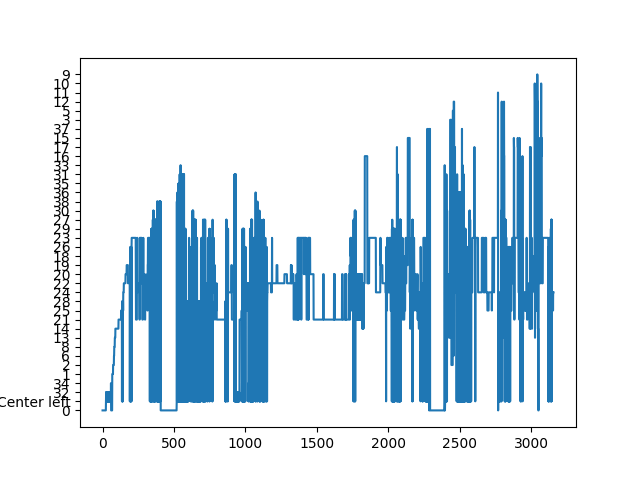
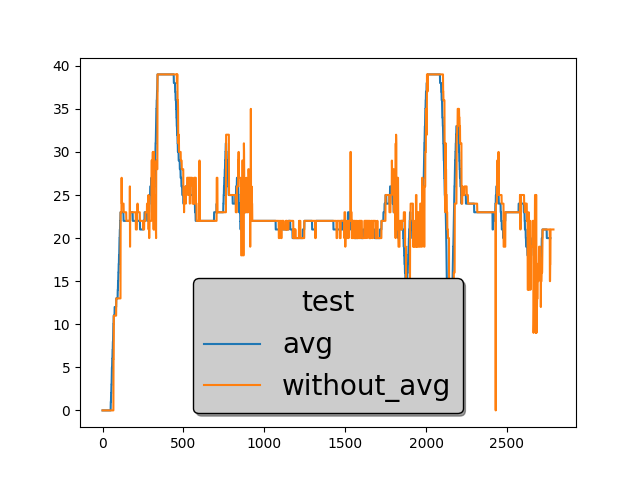
計算中間位置

diff --git a/camera_motion_estimation.py b/camera_motion_estimation.py
@@ -8,17 +8,25 @@ from scipy.stats import mode
 from sklearn.cluster import KMeans
 from collections import Counter
 from matplotlib import pyplot as plt
-from scipy.signal import find_peaks
+from scipy.signal import savgol_filter
+import pandas as pd
+import yaml
 
 class MV_on_Vechicle:
     def __init__(self):
+        with open("mvs.yaml", "r") as file:
+            mvs_data = yaml.load(file)
+            self.cameraMatrix = np.array(mvs_data['camera_matrix']['data'])
+            self.cameraMatrix = self.cameraMatrix.reshape(3,3)
+            self.distortion_coefficients = np.array(mvs_data['distortion_coefficients']['data'])
+            self.distortion_coefficients = self.distortion_coefficients.reshape(1,5)
         self.scene = "outside"
         self.window_number = 40
         self.threshold = 8000
 
 		# specify directory and file name
-        self.dir_path = "mvs_mp4\\0318"
-		# dir_path = "/media/mvclab/HDD/mvs_mp4/0318"  # mvclab
+        # self.dir_path = "mvs_mp4\\0318"
+        self.dir_path = "/media/mvclab/HDD/mvs_mp4/0318"  # mvclab
 
 		# all_file = os.listdir(dir_path)
 		# all_file = [os.path.join(dir_path, "0419_2024-04-19-06-08-40_mvs_compressed.mp4")]
@@ -44,17 +52,30 @@ class MV_on_Vechicle:
         # 儲存每幀
         self.save_frame = False
         self.save = "save"
+        # 左右轉數值邊界
+        self.leaning_right = 24
+        self.leaning_left = 16
+
+        self.window_list = [] # 存每個window
+        self.window_state = [] # 每個window的區域結果
+        self.polygon_list = [] # 畫每個window的範圍
+        self.window_result = [] # 存每個window的結果
+        self.record = []
+        self.last_state = []
+        self.center_list = []
+        self.center_without_avg_list = []
+        
 
     # 輸入影像 輸出目前影像是往左還是右
     def yuv_estimate(self, img):
-        self.threshold = img.shape[0]*img.shape[1]//4
+        self.threshold = img.shape[0]*img.shape[1]//3
         # print("threshold:", self.threshold)
         
         translation = np.ravel(img)
         # nonzeros = np.where(translation != 128)
         # translation = translation[nonzeros]
-        left_index = np.where(translation > 128)
-        right_index = np.where(translation < 128)
+        left_index = np.where(translation < 128)
+        right_index = np.where(translation > 128)
 
         left = translation[left_index]
         right = translation[right_index]
@@ -133,9 +154,24 @@ class MV_on_Vechicle:
             else:
                 left = np.sum(arr[:i])
                 right = np.sum(arr[i:])
+
             ans_list.append(abs(left-right))
+        
         best_index = np.argmax(ans_list)
+
+        if best_index == 0:
+            if np.sum(arr) < 0:
+                best_index = self.window_number - 1
+            elif np.sum(arr) > 0:
+                best_index = 0
+
         return best_index
+    
+    def exponential_moving_average(self, arr, alpha=0.5):
+        ema = arr[0]  # 初始 EMA 設為第一個元素
+        for i in range(1, len(arr)):
+            ema = alpha * arr[i] + (1 - alpha) * ema
+        return ema
 
 
     def run(self):
@@ -170,9 +206,7 @@ class MV_on_Vechicle:
             # set counter value
             # count = 1
 
-            window_list = [] # 存每個window
-            window_state = [] # 每個window的區域結果
-            polygon_list = [] # 畫每個window的範圍
+
 
             if self.scene == "outside":
                 frame_id = 0
@@ -180,8 +214,8 @@ class MV_on_Vechicle:
                 frame_height = int(cap.get(4))
                 window_width = frame_width // self.window_number
 
-                window_bottom = frame_width // 2
-                window_top = frame_height // 10
+                window_bottom = frame_height // 4 * 3
+                window_top = frame_height // 8
                 # window_bottom = frame_height // 7*6
                 # window_top = frame_height // 7
 
@@ -202,14 +236,13 @@ class MV_on_Vechicle:
             averageList = []
             last_left = ""
             last_right = ""
-            last_state = []
-            center_list = []
+
 
             for i in range(self.window_number):
-                last_state.append("")
-            record = []
+                self.last_state.append("")
+            
             for i in range(self.window_number):
-                record.append([])
+                self.window_result.append([])
             # main loop
             while True:
                 # read a new frame
@@ -217,6 +250,10 @@ class MV_on_Vechicle:
 
                 if not ret:
                     break
+                
+                cv.imshow("before", nxt)
+                nxt = cv.undistort(nxt, cameraMatrix=self.cameraMatrix, distCoeffs=self.distortion_coefficients)
+                # cv.imshow("after", nxt)
 
                 yuv = cv.cvtColor(nxt.copy(), cv.COLOR_RGB2YUV)
 
@@ -225,14 +262,14 @@ class MV_on_Vechicle:
 
                 # getVanishingPoint(u.copy(), v.copy())
 
-                window_list.clear()
-                polygon_list.clear()
-                window_state.clear()
+                self.window_list.clear()
+                self.polygon_list.clear()
+                self.window_state.clear()
                 for i in range(self.window_number):
-                    window_list.append(v[window_top:window_bottom, window_width*i:window_width*(i+1)])
+                    self.window_list.append(v[window_top:window_bottom, window_width*i:window_width*(i+1)])
                     polygon = [[window_width*i, window_top], [window_width*(i+1), window_top], [window_width*(i+1),window_bottom], [window_width*i, window_bottom]]
                     polygon = np.array([polygon], dtype=np.int32)
-                    polygon_list.append(polygon)
+                    self.polygon_list.append(polygon)
 
 
                 
@@ -246,15 +283,15 @@ class MV_on_Vechicle:
                 yuv_with_polygons = nxt.copy()
                 for i in range(self.window_number):
                     if i == 0:
-                        yuv_with_polygons = cv.polylines(yuv_with_polygons, polygon_list[i], isClosed=True, color=(0, 255, 0), thickness=2)
+                        yuv_with_polygons = cv.polylines(yuv_with_polygons, self.polygon_list[i], isClosed=True, color=(0, 255, 0), thickness=2)
                     elif i == self.window_number - 1:
-                        yuv_with_polygons = cv.polylines(yuv_with_polygons, polygon_list[i], isClosed=True, color=(0, 255, 0), thickness=2)
-                    elif i >= 15 and i <= 25:
-                        yuv_with_polygons = cv.polylines(yuv_with_polygons, polygon_list[i], isClosed=True, color=(255, 0, 0), thickness=2)
-                    elif i < 15:
-                       yuv_with_polygons = cv.polylines(yuv_with_polygons, polygon_list[i], isClosed=True, color=(0, 255, 255), thickness=2)
-                    elif i > 25:
-                        yuv_with_polygons = cv.polylines(yuv_with_polygons, polygon_list[i], isClosed=True, color=(0, 255, 255), thickness=2)
+                        yuv_with_polygons = cv.polylines(yuv_with_polygons, self.polygon_list[i], isClosed=True, color=(0, 255, 0), thickness=2)
+                    elif i >= self.leaning_left and i <= self.leaning_right:
+                        yuv_with_polygons = cv.polylines(yuv_with_polygons, self.polygon_list[i], isClosed=True, color=(255, 0, 0), thickness=2)
+                    elif i < self.leaning_left:
+                       yuv_with_polygons = cv.polylines(yuv_with_polygons, self.polygon_list[i], isClosed=True, color=(0, 255, 255), thickness=2)
+                    elif i > self.leaning_right:
+                        yuv_with_polygons = cv.polylines(yuv_with_polygons, self.polygon_list[i], isClosed=True, color=(0, 255, 255), thickness=2)
                     
                     
                 # yuv_with_polygons = cv.polylines(nxt.copy(), left_polygon_pts, isClosed=True, color=(0, 255, 0), thickness=2)
@@ -308,12 +345,12 @@ class MV_on_Vechicle:
 
                 # 儲存每個window的區域結果
                 for i in range(self.window_number):
-                    tempAns = self.yuv_estimate(window_list[i])
-                    if(tempAns == "None" and last_state != ""):
-                        window_state.append(last_state[i])
+                    tempAns = self.yuv_estimate(self.window_list[i])
+                    if(tempAns == "None" and self.last_state != ""):
+                        self.window_state.append(self.last_state[i])
                     if(tempAns != "None"):
-                        last_state[i] = tempAns
-                        window_state.append(tempAns)
+                        self.last_state[i] = tempAns
+                        self.window_state.append(tempAns)
                 
                 
 
@@ -366,29 +403,48 @@ class MV_on_Vechicle:
                 tempRow = []
                 for i in range(self.window_number):
                     # cv.putText(yuv_with_polygons, str(window_state[i]), (window_width*i+20, 100), self.font, self.fontScale, self.fontColor, self.lineType)
-                    if(window_state[i] == ""):
-                        record[i].append(0)
+                    if(self.window_state[i] == ""):
+                        self.window_result[i].append(0)
                         tempRow.append(0)
                     else:
-                        record[i].append(int(window_state[i]))
-                        tempRow.append(int(window_state[i]))
+                        self.window_result[i].append(int(self.window_state[i]))
+                        tempRow.append(int(self.window_state[i]))
                 
 
                 center = self.find_center(tempRow)
-                if len(motion_list) >= 3:
-                    motion_list.pop(0)
-                if center == 0:
-                    motion_list.append("Right")
-                elif center == self.window_number - 1:
-                    motion_list.append("Left")
-                elif center >= 15 and center <= 25:
-                    motion_list.append("Straight")
-                elif center < 15:
-                    motion_list.append("Center right")
-                elif center > 25:
-                    center_list.append("Center left")
+                self.center_without_avg_list.append(center)
 
-                center_list.append(center)
+
+                if len(self.center_without_avg_list) >= 20:
+                    center_sum = 0
+                    # EMA_window = []
+                    for i in range(1, 21):
+                        center_sum += self.center_without_avg_list[-i]
+                        # EMA_window.append(self.center_without_avg_list[-i])
+                    
+
+                    # center_avg = int(self.exponential_moving_average(EMA_window))
+                    center_avg = int(center_sum / 20)
+
+                    self.center_list.append(center_avg)
+                    cv.circle(yuv_with_polygons, (frame_width*center_avg//self.window_number, 30), 5, (0, 0, 255), 2)
+
+                    if len(motion_list) >= 3:
+                        motion_list.pop(0)
+
+
+                    if center_avg == 0:
+                        motion_list.append("Left")
+                    elif center_avg == self.window_number - 1:
+                        motion_list.append("Right")
+                    elif center_avg >= self.leaning_left and center_avg <= self.leaning_right:
+                        motion_list.append("Straight")
+                    elif center_avg < self.leaning_left:
+                        motion_list.append("Leaning left")
+                    elif center_avg > self.leaning_right:
+                        motion_list.append("Leaning right")
+
+
                 if(len(motion_list) >= 3):
                     if(motion_list[motion_index - 2] == motion_list[motion_index - 1] and motion_list[motion_index - 1] == motion_list[motion_index]):
                         realMotion = motion_list[motion_index - 2]
@@ -399,8 +455,8 @@ class MV_on_Vechicle:
                 # cv.putText(yuv_with_polygons, left_state, (50,100), font, fontScale, fontColor, lineType)
                 # cv.putText(yuv_with_polygons, right_state, (450,100), font, fontScale, fontColor, lineType)
                 # cv.putText(yuv_with_polygons, str(motion_list), (50,200), font, fontScale, fontColor, lineType)
-                cv.putText(yuv_with_polygons, str(realMotion), (260,380), self.font, self.fontScale, (0, 0, 255), self.lineType)
-                cv.circle(yuv_with_polygons, (frame_width*center//self.window_number, 30), 5, (0, 0, 255), 2)
+                cv.putText(yuv_with_polygons, str(realMotion), (260,400), self.font, self.fontScale, (0, 0, 255), self.lineType)
+                
 
                 y = cv.cvtColor(y, cv.COLOR_GRAY2BGR)
                 u = cv.cvtColor(u, cv.COLOR_GRAY2BGR)
@@ -408,8 +464,8 @@ class MV_on_Vechicle:
                 # cv.imshow("Original", nxt)
                 # cv.imshow("yuv", yuv)
                 # cv.imshow('YImage', y)
-                cv.imshow('UImage', u)
-                cv.imshow('VImage', v)
+                # cv.imshow('UImage', u)
+                # cv.imshow('VImage', v)
                 # cv.imshow("left", left_img)
                 # cv.imshow("right", right_img)
                 cv.imshow("polygons", yuv_with_polygons)
@@ -417,8 +473,8 @@ class MV_on_Vechicle:
                 if self.save_frame:
                     cv.imwrite(self.save + "\\" + str(frame_id) + ".jpg", yuv_with_polygons)
 
-                # if cv.waitKey(25) & 0xFF == ord('q'):
-                #     break
+                if cv.waitKey(25) & 0xFF == ord('q'):
+                    break
                 
                 outputStream.write(yuv_with_polygons)
                 
@@ -429,9 +485,18 @@ class MV_on_Vechicle:
             # plt.plot(noiseList1, label="left")
             # plt.plot(averageList, label="average")
             # record = np.array(record)
-            plt.plot(center_list)
+            plt.plot(self.center_list, label="avg")
+            plt.plot(self.center_without_avg_list, label="without_avg")
             # plt.plot(record[0])
             # plt.plot(record[2])
+            plt.legend(
+                loc='best',
+                fontsize=20,
+                shadow=True,
+                facecolor='#ccc',
+                edgecolor='#000',
+                title='test',
+                title_fontsize=20)
             plt.savefig("plot.png")
             plt.show()
 
